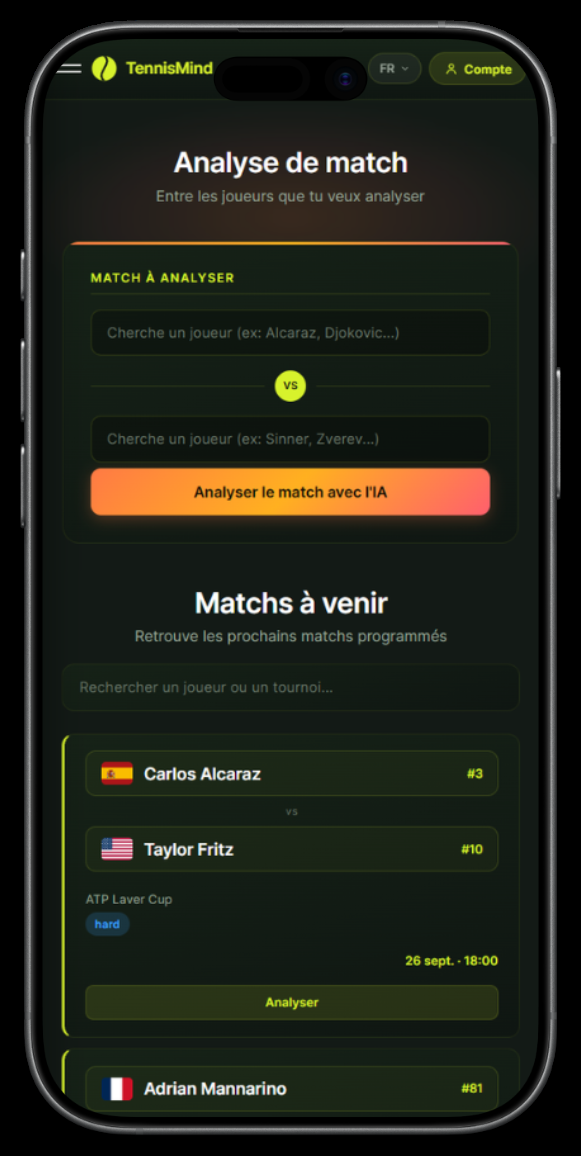
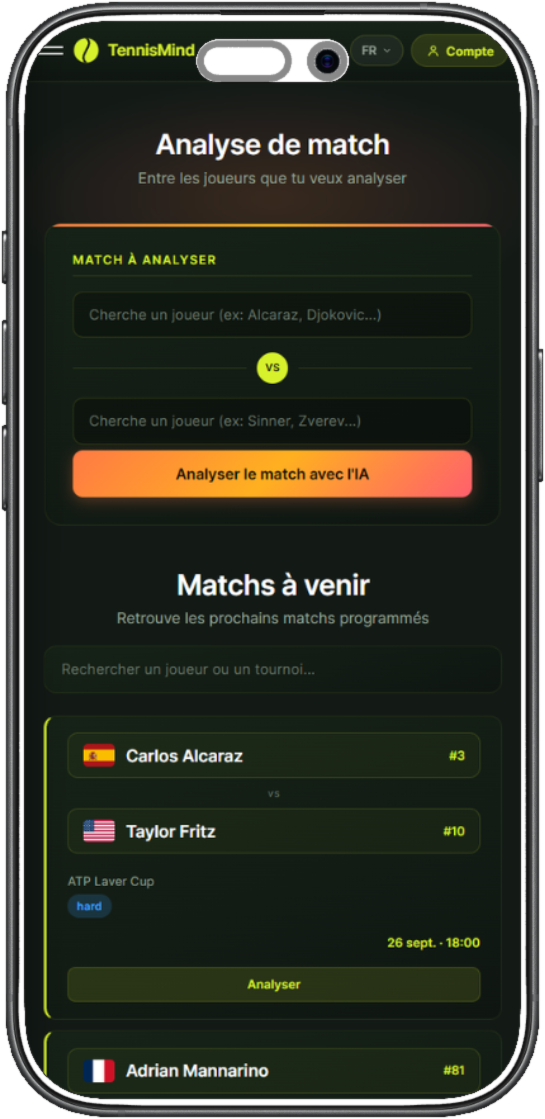
Corrige les mockups iPhone de la landing page: fond transparent (supprime les bords/coins noirs visibles autour du telephone incline), reduction 520px -> 460px pour un rendu plus net
Claude-Session: https://claude.ai/code/session_019xjxBvDEwBzYnDuEt8fXL9

diff --git a/landing.html b/landing.html
@@ -187,7 +187,7 @@
   /* ---------- PHONE MOCK ---------- */
   .phone-stage{
     position:relative;
-    max-width: 520px; margin: 56px auto 0;
+    max-width: 460px; margin: 56px auto 0;
     padding-bottom: 40px;
   }
   /* Mockup iPhone genere (shots.so) : remplace l'ancien faux telephone
